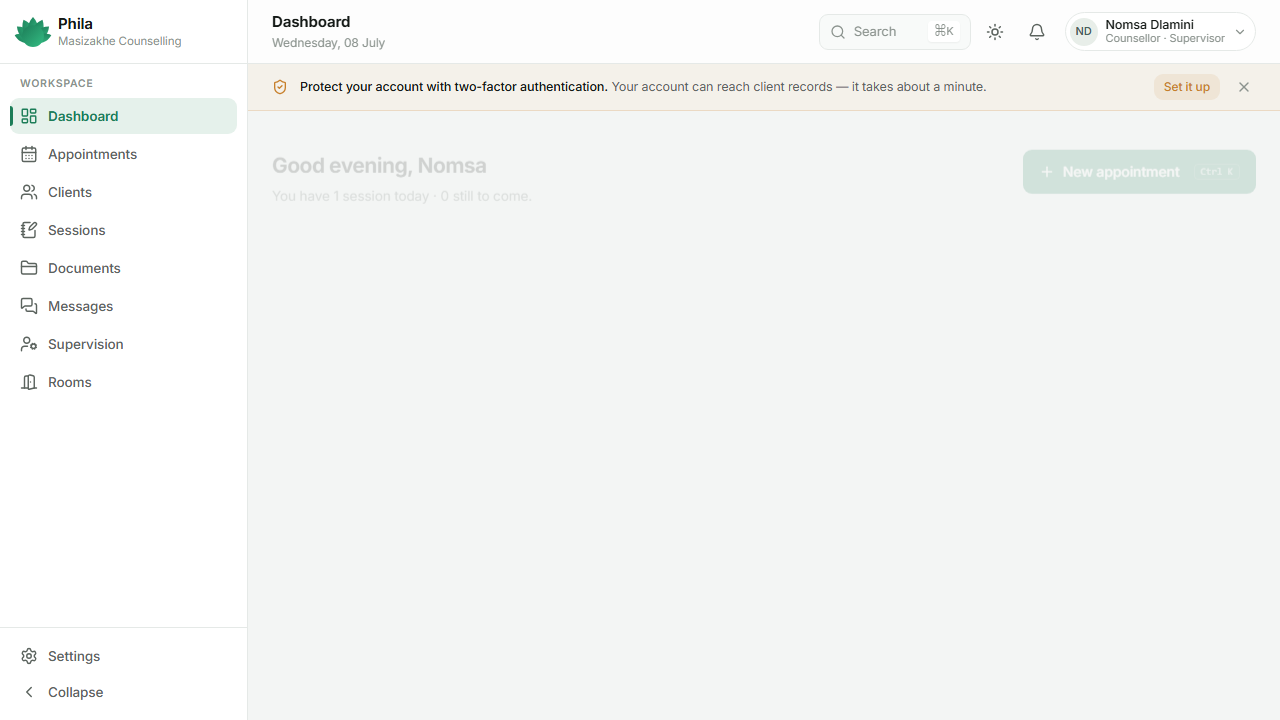
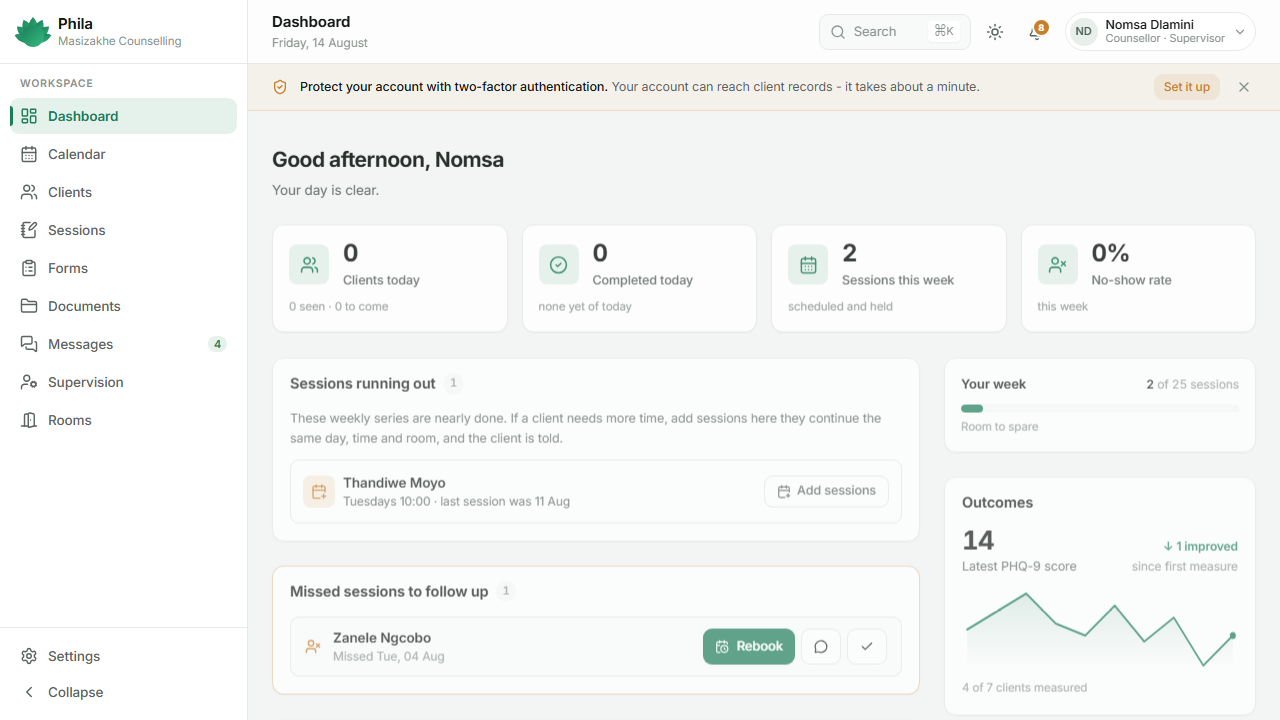
Batch 3m: org dashboard - Rooms promoted, Needs attention retired
- The org overview's "Needs attention" card is gone: safeguarding flags
  and pending credentials are acted on where they live (client profile,
  Team), and the dashboard reads as a clean 2x2 grid
- Rooms right now takes the fourth slot, redesigned: a segmented
  occupancy strip (one segment per room, lit in the room's colour while
  a session is in it), bordered room rows naming the counsellor in the
  room, an In session / Free chip with the until / next time, and a
  View all link to Rooms
- The counsellor dashboard's own attention card is untouched
- dashboards e2e spec updated: the DB-set risk flag is asserted on the
  client profile; the overview asserts Rooms present and the old card
  absent

Proven live on a production build; 263 unit tests green.

diff --git a/components/dashboard/rooms-right-now.tsx b/components/dashboard/rooms-right-now.tsx
@@ -1,5 +1,5 @@
 import Link from "next/link";
-import { DoorOpen } from "lucide-react";
+import { ChevronRight, DoorOpen } from "lucide-react";
 import { Card, CardHead } from "@/components/ui/card";
 import type { RoomNow } from "@/db/queries/room-assignments";
 import { cn } from "@/lib/utils";
@@ -9,8 +9,11 @@ function hhmm(iso: string): string {
 }
 
 /**
- * Feedback #8 - room pressure at a glance, on the dashboard. Green pulse =
- * a session is happening in that room right now.
+ * Feedback #8, redesigned in batch 3m - room pressure at a glance, promoted to
+ * a main dashboard slot. A segmented occupancy strip up top (one segment per
+ * room, lit while a session is in it), then each room as a calm row: pulse +
+ * room colour, name, and an honest status chip - who's in it and until when,
+ * or when it's next booked.
  */
 export function RoomsRightNow({ rooms, className }: { rooms: RoomNow[]; className?: string }) {
   const active = rooms.filter((r) => r.status === "active");
@@ -21,23 +24,52 @@ export function RoomsRightNow({ rooms, className }: { rooms: RoomNow[]; classNam
     <Card className={cn("flex flex-col", className)}>
       <CardHead
         title={<span className="flex items-center gap-2"><DoorOpen className="size-4 text-text-3" strokeWidth={2} aria-hidden /> Rooms right now</span>}
-        action={<span className="text-[12px] text-text-2"><span className="font-semibold tabular-nums text-text">{busy}</span> of {active.length} in use</span>}
+        action={
+          <span className="flex items-center gap-3">
+            <span className="text-[12px] text-text-2"><span className="font-semibold tabular-nums text-text">{busy}</span> of {active.length} in use</span>
+            <Link href="/hub/rooms" className="group inline-flex items-center gap-0.5 text-[12px] font-medium text-accent hover:underline">
+              View all
+              <ChevronRight className="size-3.5 transition-transform group-hover:translate-x-0.5" strokeWidth={2} aria-hidden />
+            </Link>
+          </span>
+        }
       />
-      <div className="min-h-0 flex-1 space-y-2 overflow-y-auto px-[17px] pb-[17px]">
+
+      {/* The occupancy strip - one segment per room, lit while in session. */}
+      <div className="flex gap-1 px-[17px] pb-3" aria-hidden>
         {active.map((r) => (
-          <Link key={r.id} href={`/hub/rooms/${r.id}`} className="flex items-center gap-2.5 rounded-control px-1.5 py-1 transition-colors hover:bg-surface-hover">
+          <span
+            key={r.id}
+            title={r.name}
+            className={cn("h-1.5 flex-1 rounded-full transition-opacity", r.busy ? "opacity-100" : "opacity-25")}
+            style={{ backgroundColor: r.colour }}
+          />
+        ))}
+      </div>
+
+      <div className="min-h-0 flex-1 space-y-1.5 overflow-y-auto px-[17px] pb-[17px]">
+        {active.map((r) => (
+          <Link
+            key={r.id}
+            href={`/hub/rooms/${r.id}`}
+            className="flex items-center gap-3 rounded-control border border-border bg-surface px-3 py-2.5 transition-colors hover:border-border-strong hover:bg-surface-hover"
+          >
             <span className="relative flex size-2 shrink-0" aria-hidden>
               {r.busy && <span className="absolute inline-flex size-full animate-ping rounded-full bg-accent opacity-60 motion-reduce:animate-none" />}
               <span className={cn("relative inline-flex size-2 rounded-full", r.busy ? "bg-accent" : "bg-border-strong")} />
             </span>
             <span className="size-2.5 shrink-0 rounded-full" style={{ backgroundColor: r.colour }} aria-hidden />
-            <span className="min-w-0 flex-1 truncate text-[13px] font-medium text-text">{r.name}</span>
-            <span className="shrink-0 text-[12px] text-text-3">
-              {r.busy
-                ? `${r.busy.counsellorName.split(" ")[0]} · until ${hhmm(r.busy.until)}`
-                : r.next
-                  ? `free · next ${hhmm(r.next.startsAt)}`
-                  : "free"}
+            <span className="min-w-0 flex-1">
+              <span className="block truncate text-[13px] font-medium text-text">{r.name}</span>
+              {r.busy && <span className="block truncate text-[11.5px] text-text-3">{r.busy.counsellorName}</span>}
+            </span>
+            <span
+              className={cn(
+                "shrink-0 rounded-chip px-2 py-0.5 text-[11.5px] font-medium tabular-nums",
+                r.busy ? "bg-accent-soft text-accent" : "bg-surface-2 text-text-3",
+              )}
+            >
+              {r.busy ? `In session · until ${hhmm(r.busy.until)}` : r.next ? `Free · next ${hhmm(r.next.startsAt)}` : "Free today"}
             </span>
           </Link>
         ))}

diff --git a/components/dashboard/hub-period-dashboard.tsx b/components/dashboard/hub-period-dashboard.tsx
@@ -2,14 +2,13 @@
 
 import { useState } from "react";
 import type { DashPeriod, HubDashboard, UpcomingRow, ActivityRow } from "@/db/queries/hub-dashboard";
-import type { AppointmentView, AttentionItem } from "@/lib/data-provider";
+import type { AppointmentView } from "@/lib/data-provider";
 import type { RoomNow } from "@/db/queries/room-assignments";
 import { DASH_PERIODS } from "@/lib/dashboard/periods";
 import { Card, CardHead } from "@/components/ui/card";
 import { HubDashboardStats } from "@/components/dashboard/hub-dashboard-stats";
 import { ComingUpNext } from "@/components/dashboard/coming-up-next";
 import { ActivityFeed } from "@/components/dashboard/activity-feed";
-import { AttentionList } from "@/components/dashboard/attention-list";
 import { RoomsRightNow } from "@/components/dashboard/rooms-right-now";
 import { TeamThisWeek, type TeamLoadRow } from "@/components/dashboard/team-this-week";
 import type { SchedulingOptions } from "@/components/scheduling/create-appointment-modal";
@@ -21,10 +20,8 @@ const WIDGET_H = "h-[380px]";
  * One period, one dashboard. The Today / This week / This month / Last month
  * filter now drives the stat tiles AND the widgets beneath them - each period's
  * slice is computed server-side up front, so switching is instant with no
- * refetch. "Needs attention" stays unfiltered on purpose: a safeguarding flag
- * or a pending credential is a standing state, not a thing that happened in a
- * window - hiding it behind a date filter would be dangerous, so the card says
- * so plainly.
+ * refetch. Batch 3m: "Needs attention" left this dashboard (the org acts on
+ * flags where they live); Rooms right now holds the fourth slot.
  */
 export function HubPeriodDashboard({
   data,
@@ -32,7 +29,6 @@ export function HubPeriodDashboard({
   upcomingByPeriod,
   activityByPeriod,
   teamByPeriod,
-  attention,
   rooms,
   apptDetails,
   scheduling,
@@ -42,7 +38,6 @@ export function HubPeriodDashboard({
   upcomingByPeriod: Record<DashPeriod, UpcomingRow[]>;
   activityByPeriod: Record<DashPeriod, ActivityRow[]>;
   teamByPeriod: Record<DashPeriod, TeamLoadRow[]>;
-  attention: AttentionItem[];
   rooms: RoomNow[];
   /** Full appointments behind the "Coming up next" rows, keyed by id. */
   apptDetails: Record<string, AppointmentView>;
@@ -69,17 +64,8 @@ export function HubPeriodDashboard({
 
         <TeamThisWeek rows={teamByPeriod[period]} className={WIDGET_H} periodLabel={periodLabel} />
 
-        <Card className={`flex flex-col ${WIDGET_H}`}>
-          <CardHead
-            title="Needs attention"
-            count={attention.length}
-            action={<span className="text-[11.5px] text-text-3">always current</span>}
-          />
-          <div className="min-h-0 flex-1 overflow-y-auto px-[17px] pb-[17px]">
-            <AttentionList items={attention} />
-          </div>
-        </Card>
-
+        {/* Batch 3m - "Needs attention" left the org dashboard (safeguarding
+            flags live where they're acted on); Rooms took its slot. */}
         <RoomsRightNow rooms={rooms} className={WIDGET_H} />
       </div>
     </>

diff --git a/tests/e2e/dashboards.spec.ts b/tests/e2e/dashboards.spec.ts
@@ -18,14 +18,19 @@ async function signIn(page: Page, email: string, password = "phila1234") {
   await page.getByRole("button", { name: "Sign in", exact: true }).click();
 }
 
-test("hub overview reflects a risk flag set in the DB", async ({ page }) => {
+test("hub overview renders; a risk flag set in the DB shows on the client", async ({ page }) => {
+  // Batch 3m - "Needs attention" left the org dashboard (Rooms right now holds
+  // that slot); the safeguarding flag is asserted where the org acts on it.
   await sql`UPDATE clients SET risk_flag = true WHERE id = 'cl_johan'`;
   try {
     await signIn(page, "thandeka@masizakhe.org.za");
     await page.waitForURL("**/hub", { timeout: 30_000 });
     await expect(page.getByText(/Good (morning|afternoon|evening), Thandeka/)).toBeVisible({ timeout: 15_000 });
-    await expect(page.getByText(/Johan Botha/).first()).toBeVisible({ timeout: 15_000 });
+    await expect(page.getByText("Rooms right now")).toBeVisible({ timeout: 15_000 });
+    await expect(page.getByText("Needs attention")).toHaveCount(0);
     await page.screenshot({ path: "screenshots/hub-overview-db.png", fullPage: true });
+    await page.goto("/hub/clients/cl_johan");
+    await expect(page.getByText("Safeguarding flag")).toBeVisible({ timeout: 15_000 });
   } finally {
     await sql`UPDATE clients SET risk_flag = false WHERE id = 'cl_johan'`;
   }

diff --git a/app/hub/page.tsx b/app/hub/page.tsx
@@ -120,7 +120,6 @@ export default async function HubOverviewPage() {
         upcomingByPeriod={upcomingByPeriod}
         activityByPeriod={activityByPeriod}
         teamByPeriod={teamByPeriod}
-        attention={overview.attention}
         rooms={roomsNow}
         apptDetails={apptDetails}
         scheduling={{

diff --git a/docs/SMOKE_TEST.md b/docs/SMOKE_TEST.md
@@ -108,10 +108,10 @@ Sign in as **Thandeka**.
 - ☐ `/hub` overview renders with real KPIs; the **period filter** (Today / This week / This month / Last month) recomputes tiles, the payment split (**Paid online** vs **Cash / Card / EFT**), and the bookings **chart** instantly
 - ☐ **Coming up next** lists the next sessions; the **Activity feed** shows humanised org events ("New session booked", "Counsellor availability updated") with who + when - no read-noise ("who looked") entries
 - ☐ (If credits are low) a **"top up"** nudge banner appears linking to Billing & usage *(to force it: lower a balance in the DB, e.g. `update credit_balances set balance=12 where org_id='org_masizakhe' and channel='sms'`)*
-- ☐ **Uniform widgets**: every overview widget (Coming up next · Activity feed · Team this week · Needs attention · Rooms right now) is the SAME height; long content (esp. the Activity feed) scrolls inside its card - the page never becomes one long feed
+- ☐ **Uniform widgets**: every overview widget (Coming up next · Activity feed · Team this week · Rooms right now) is the SAME height; long content (esp. the Activity feed) scrolls inside its card - the page never becomes one long feed. Batch 3m: **Needs attention is gone** from the org dashboard - the safeguarding flag shows on the client profile where the org acts on it; **Rooms right now** holds the fourth slot, redesigned: a segmented occupancy strip (one segment per room, lit while in session), bordered room rows with the counsellor in the room, an In session / Free chip with the until / next time, and a **View all** link to Rooms
 - ☐ **Team this week filters**: chips with live counts (All · Near capacity · Has room · Unverified) narrow the list; the name search finds a member; count pill updates
 - ☐ **Coming up next filters**: chips with live counts (All · In person · Online · Hybrid) narrow the next 20 sessions by how they happen; the count pill updates; honest empty state per type
-- ☐ **One filter drives the whole dashboard** (batch 2m): clicking **Today** narrows the widgets too - Coming up next lists only today's sessions (its head reads "today"), the Activity feed shows only today's events, and the staffing card retitles to **Team today** with that day's load; **This month** / **Last month** widen the same way (Last month shows that month's sessions, not the future); **Needs attention** deliberately does NOT filter - safeguarding flags and pending credentials are standing states, so the card is labelled **"always current"**
+- ☐ **One filter drives the whole dashboard** (batch 2m): clicking **Today** narrows the widgets too - Coming up next lists only today's sessions (its head reads "today"), the Activity feed shows only today's events, and the staffing card retitles to **Team today** with that day's load; **This month** / **Last month** widen the same way (Last month shows that month's sessions, not the future)
 - ☐ A session outside practice hours (say 23:30) still appears on **Today**'s bookings chart - the chart's hours widen to cover it rather than disagreeing with the tile above
 - ☐ **Clicking a session opens it in place** (batch 2m): a row in **Coming up next** opens the real appointment as a modal on `/hub` - client, state, series badge, date/time/duration/counsellor, room or Join link, and the full actions (Reschedule · Completed · No-show · Postponed · Cancel · View client) - no jump to the calendar page; Esc closes it and the dashboard is exactly where it was; rescheduling or cancelling refreshes the widgets behind it
 

diff --git a/docs/ROADMAP.md b/docs/ROADMAP.md
@@ -1659,6 +1659,16 @@ Closeout: `docs/completed/PHASE_31_COMPLETE.md`.*
   invoice's number. Proven live end to end; 7 new unit tests (reference derivation, forgiving
   parse, notification append).
 
+- [x] **Org dashboard: Rooms promoted, Needs attention retired** *(2026-08-14, batch 3m)*: the org
+  overview's "Needs attention" card came off - safeguarding flags and pending credentials are
+  acted on where they live (the client profile shows the flag; Team shows credentials), and the
+  dashboard reads calmer as a clean 2x2. **Rooms right now** took the fourth slot and got a
+  proper design: a segmented occupancy strip (one segment per room, lit in the room's colour
+  while a session is in it), bordered room rows naming the counsellor in the room, an
+  In session / Free chip with the until / next time, and a View all link to Rooms. The
+  dashboards e2e spec now asserts the flag on the client profile instead. The counsellor
+  dashboard's own attention card is untouched.
+
 - [ ] **EAP companies - deferred next steps** *(parked until decided)*:
   - [ ] A company **self-serve portal** (same pattern as the funder portal): HR signs in and sees
     their own aggregate dashboard - balance, usage, months - still never an identity.
